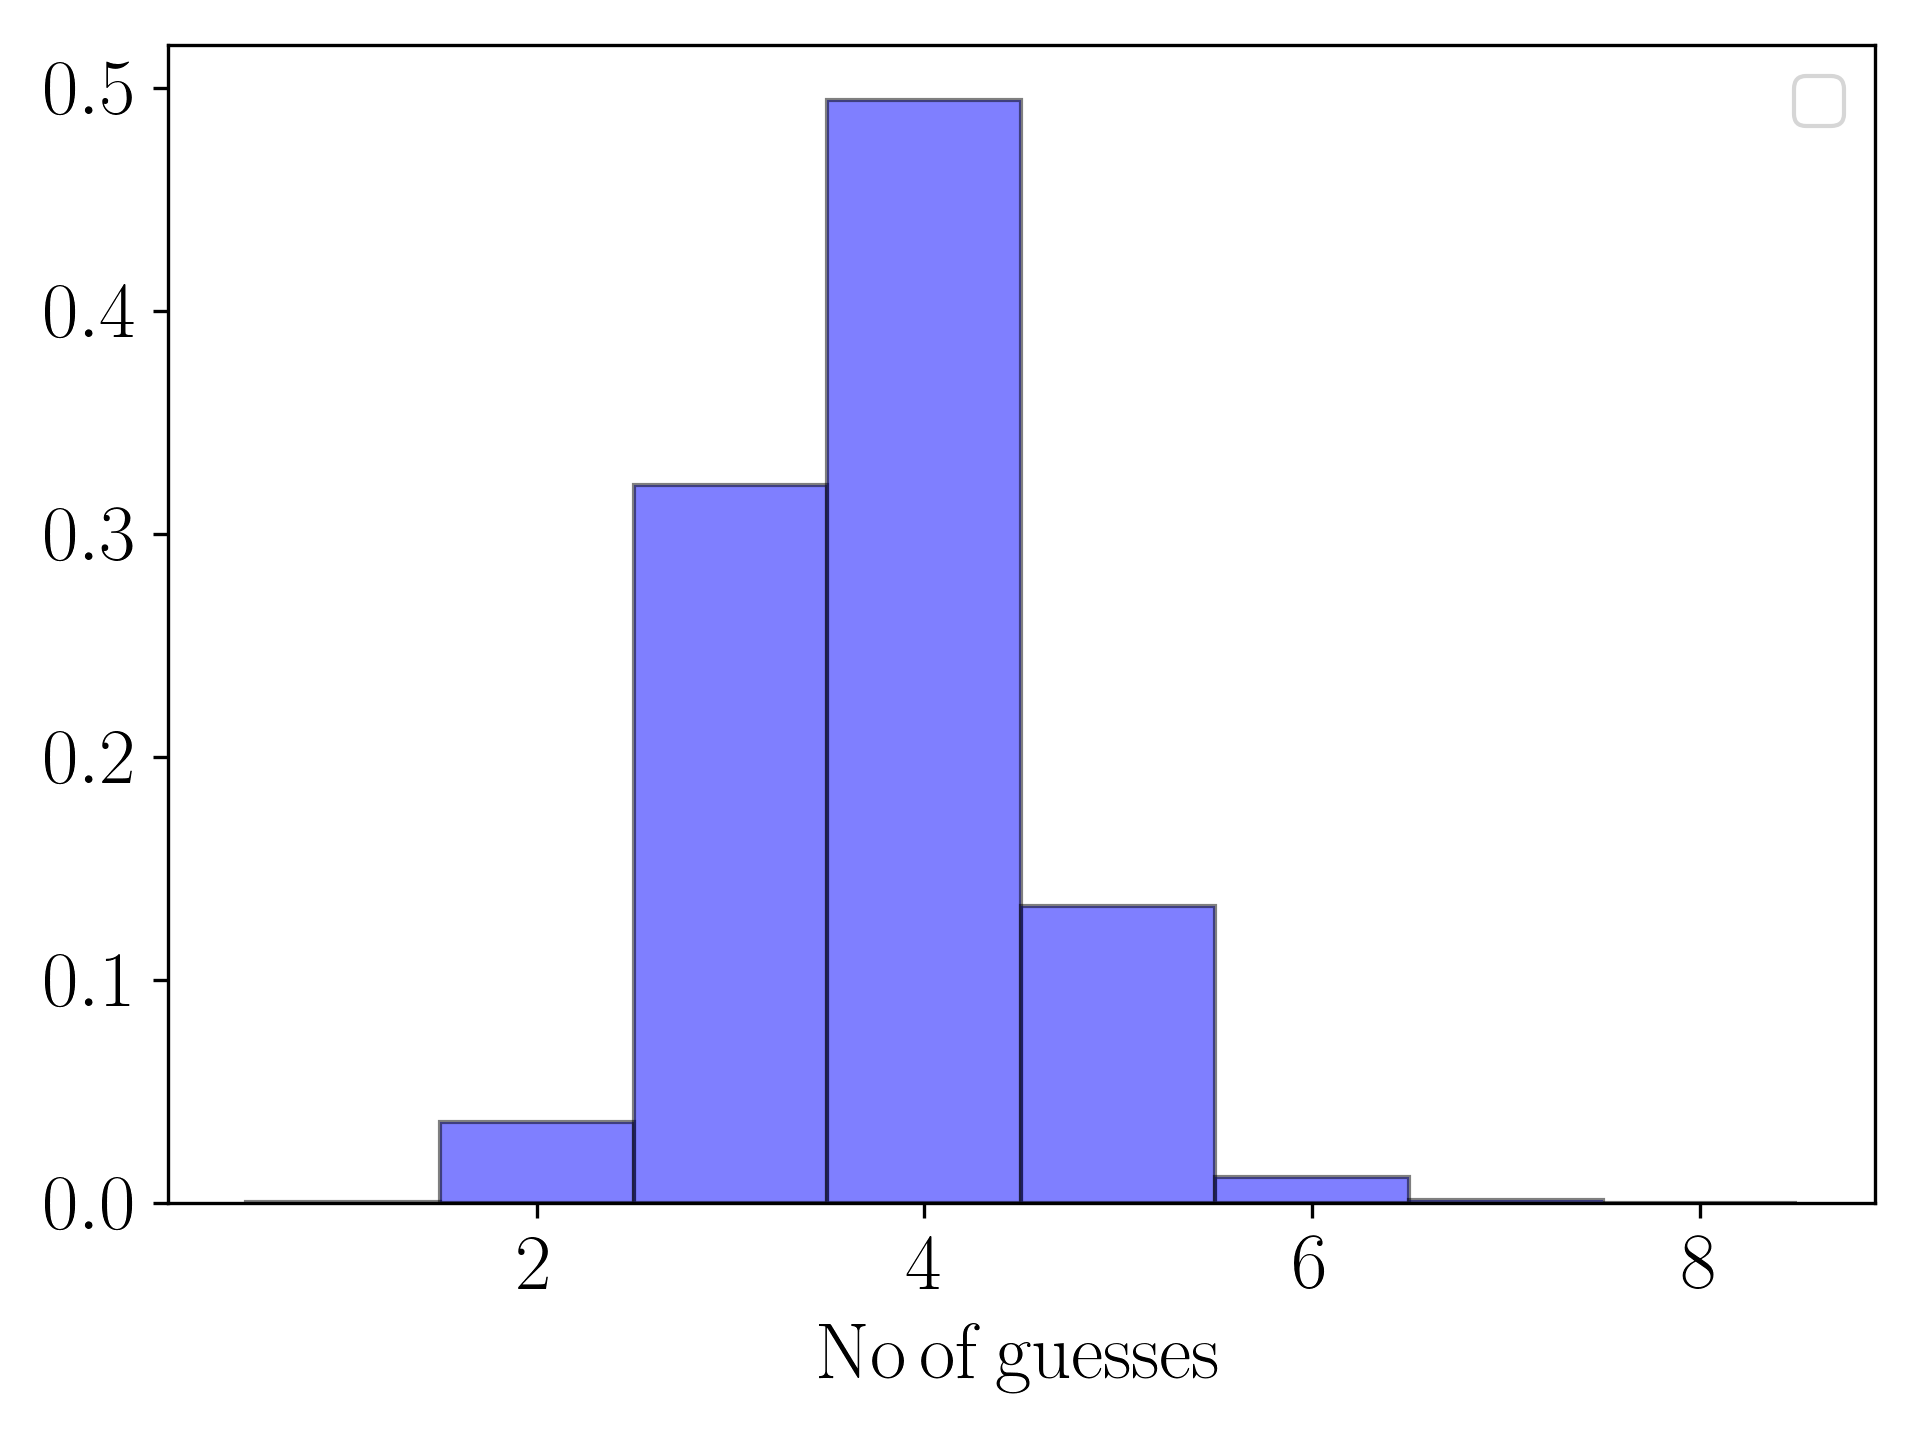
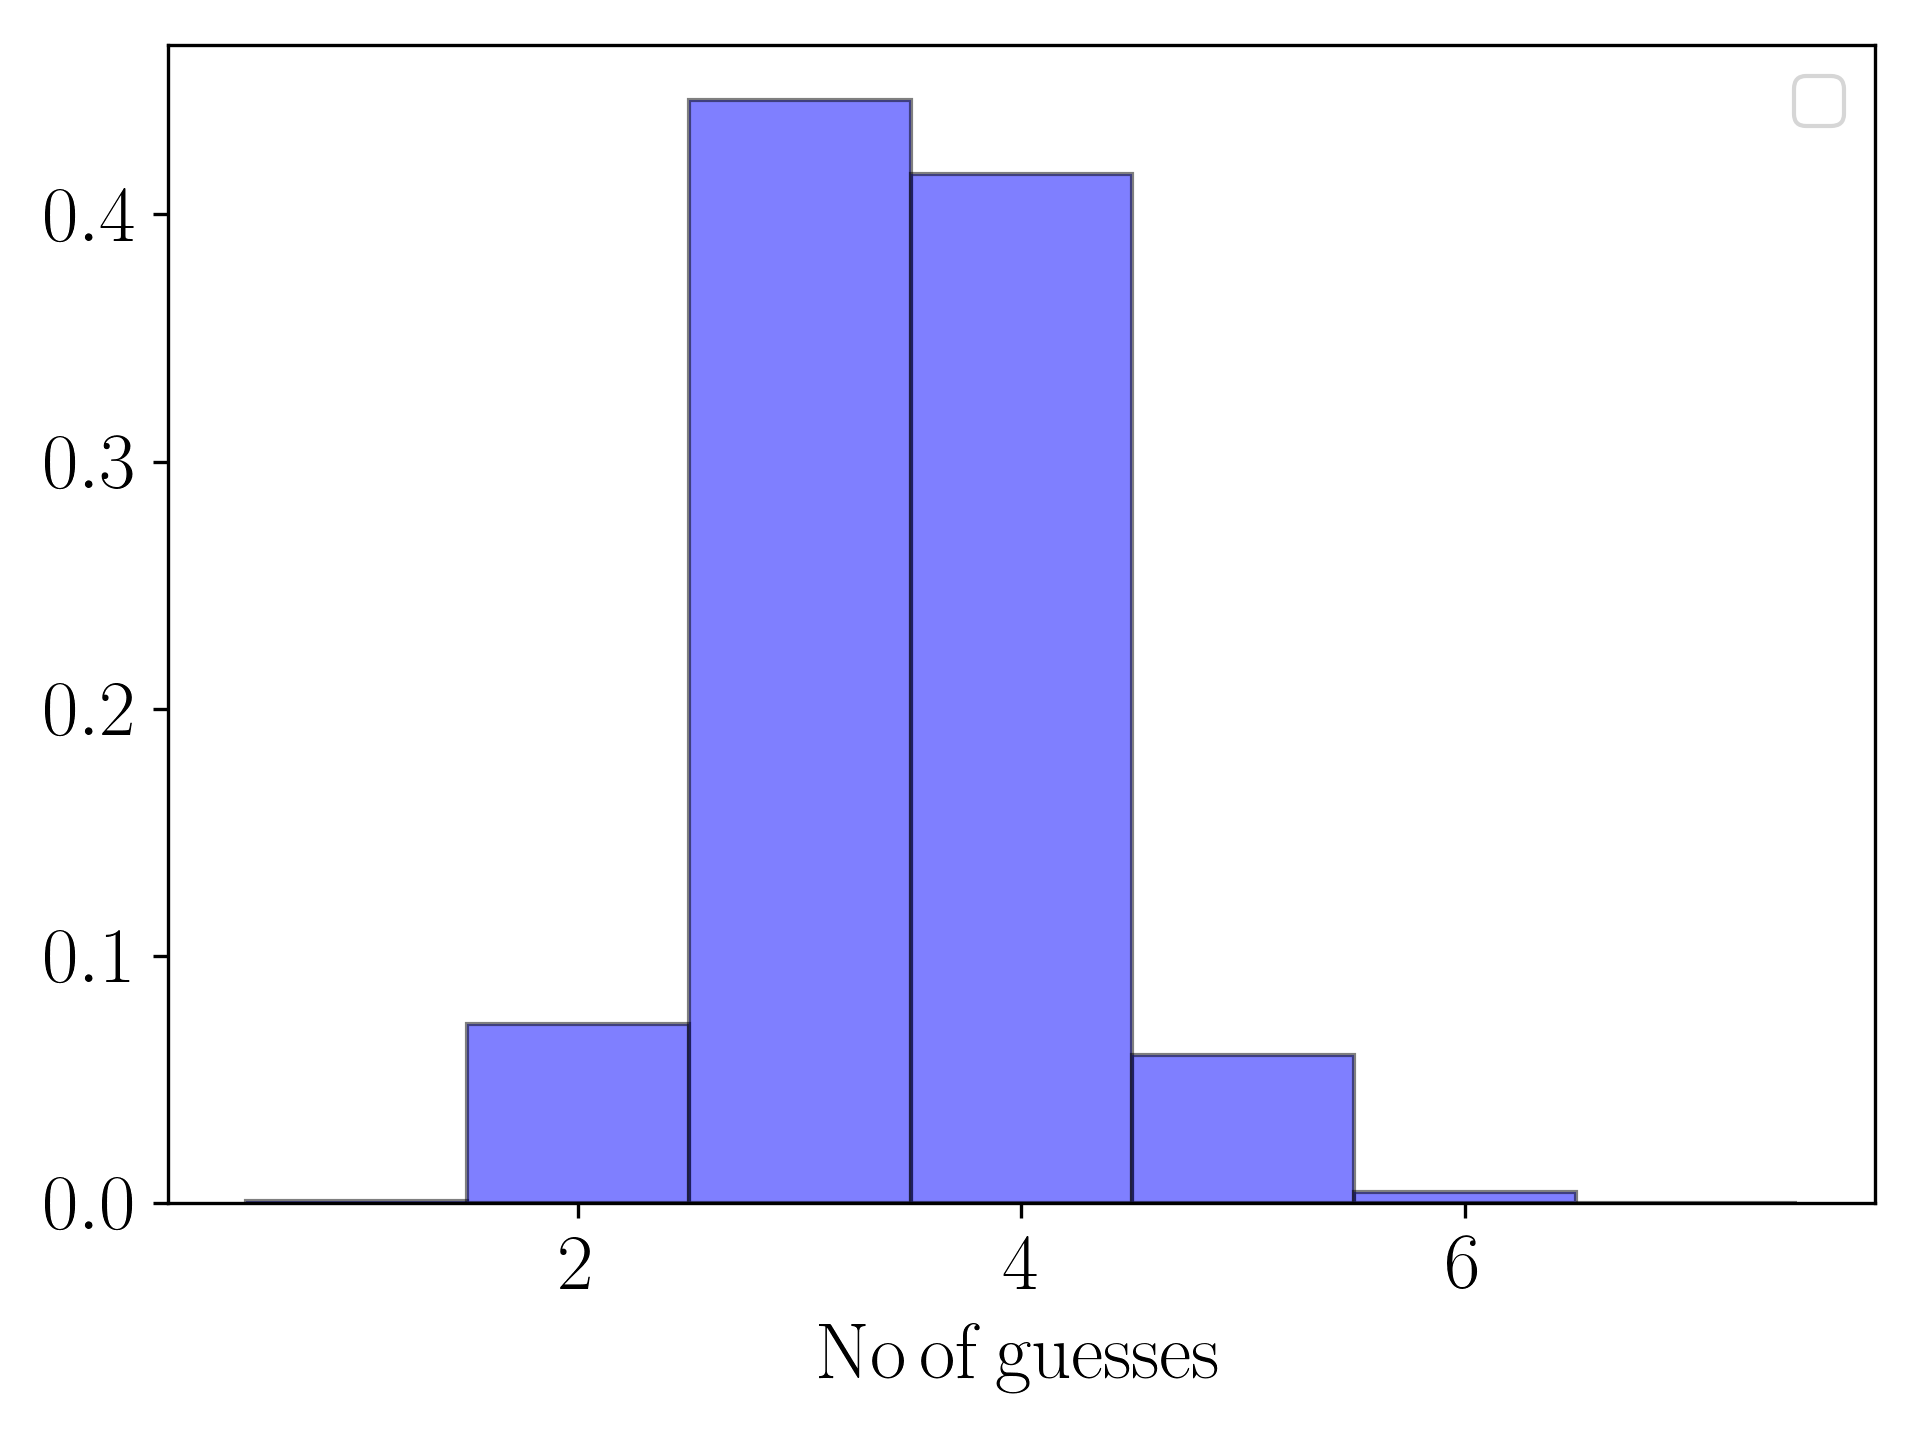
fix repeating letters

diff --git a/Interactive.py b/Interactive.py
@@ -4,8 +4,10 @@ import numpy as np
 def load_words():
   with open('words_alpha.txt') as word_file:
     valid_words = set(word_file.read().split())
-
+  with open('google-10000-english-usa-no-swears-medium.txt') as word_file:
+    valid_words = valid_words.union(set(word_file.read().split()))
   return valid_words
+
 
 
 english_words = load_words()
@@ -125,6 +127,10 @@ class GradingSystem(object):
         self.bad[i] += each
     self.contain = ''.join(set(self.contain))
     self.notpresent = ''.join(set(self.notpresent))
+    # when letter repeats, the 'k' might be wrong
+    for eachLetter in self.notpresent:
+      if eachLetter in self.contain:
+        self.notpresent = self.notpresent.replace(eachLetter,'')
     if not self.quiet:
       print('self.contain = %s' % self.contain)
       print('self.notpresent = %s' % self.notpresent)
@@ -182,6 +188,7 @@ class GradingSystem(object):
           print('self.known = %s' % self.known)
           print('self.bad = %s' % self.bad)
         grade += 4.*green + 1.*yellow
+      grade = grade - (5-len(set(word)))*0.5 # deduction 0.5 points for every repeating letter
       # print(word, grade)
       grades.append(grade)
       if grade >= best_grade:
@@ -232,7 +239,7 @@ if __name__ == '__main__':
 
   # now iteration
   words = 10
-  ob = GradingSystem(quiet=True,length_5=length_5)
+  ob = GradingSystem(quiet=False,length_5=length_5)
   words = ob.PossibleWords()
 
   while words > 1:

diff --git a/GetYourSolution.py b/GetYourSolution.py
@@ -1,0 +1,24 @@
+import random 
+import numpy as np
+
+from Interactive import GradingSystem, length_5
+
+if __name__ == '__main__':
+
+  # now iteration
+  words = 10
+  ob = GradingSystem(quiet=False,length_5=length_5)
+  words = ob.PossibleWords()
+
+  while words > 1:
+    ob.AddingAGuess()
+    myWord = ''
+    for i in range(5):
+      if ob.known[i] == '':
+        myWord += '_'
+      else:
+        myWord += ob.known[i]
+    print('The word is now' + ' '*25 + myWord)
+    print('You may use %s to fill in the blanks' % (','.join(ob.contain)))
+
+    words = ob.PossibleWords()

diff --git a/README.md b/README.md
@@ -6,6 +6,14 @@ This project provides you the suggestion to put into the box of wordle puzzle.
 The file words_alpha.txt comes from [dwyl's repo](https://github.com/dwyl/english-words/blob/master/words_alpha.txt).
 It contains 15918 5-length words. 
 
+## Usage
+
+```
+GetYourSolution.py # Give you suggestions based on word inputs and color inputs 
+Interactive.py # Generate your own puzzle and play it!
+MeanSteps.py # For calculating the effectiveness
+```
+
 ## Method
 
 The method is based on ranking all the word with repect to 
@@ -17,7 +25,10 @@ P(first s is green)*4 + P(first s is yellow)*1 + P(second a is green)*4 + P(seco
 Therefore, you will always see the same suggestions at the first step. Let's suppose that you input "table" and get the ”GYKKK" (where K stands for black, G for green and Y for yellow),
 now the weights will be changed, putting "t" at the first position will be worthless, but t can still be put elsewhere. Similarly, the letters "ble" will be worthless. It would be pointless to put "a" at the the first or second position, because it would provide no extra information at all!
 
-This method is shown to be useful. For example, if you end up with three possible answers: cling, fling, kling, you may need to try three times (if you are unlucky, of course!) to get the right answer! But this program will tell you the following 5 are the best choices: 
+
+However, the method tend to overestimate words with repeating letters. To avoid this, I simply deduce 0.5 points from the word everytime a letter repeats. 
+
+Some examples could demonstrate the logic behind this method. For example, if you end up with three possible answers: cling, fling, kling, you may need to try three times (if you are unlucky, of course!) to get the right answer! But this program will tell you the following 5 are the best choices: 
 
 ```
 top  1 -> clonk 0.5065
@@ -28,5 +39,5 @@ top  5 -> clich 0.4985
 ```
 ## Effectiveness 
 
-Using the smaller dictionary [first20hours's repo](https://github.com/first20hours/google-10000-english/blob/master/google-10000-english-usa-no-swears-medium.txt), which contain 1367 5-length words, I can confirm that only 2 words require more than 6 steps. The distribution is shown:
+Using the smaller dictionary [first20hours's repo](https://github.com/first20hours/google-10000-english/blob/master/google-10000-english-usa-no-swears-medium.txt), which contain 1367 5-length words, I can confirm that only no word require more than 6 steps. The distribution is shown:
 ![Alt text](MeanSteps.png?raw=true "Title")
